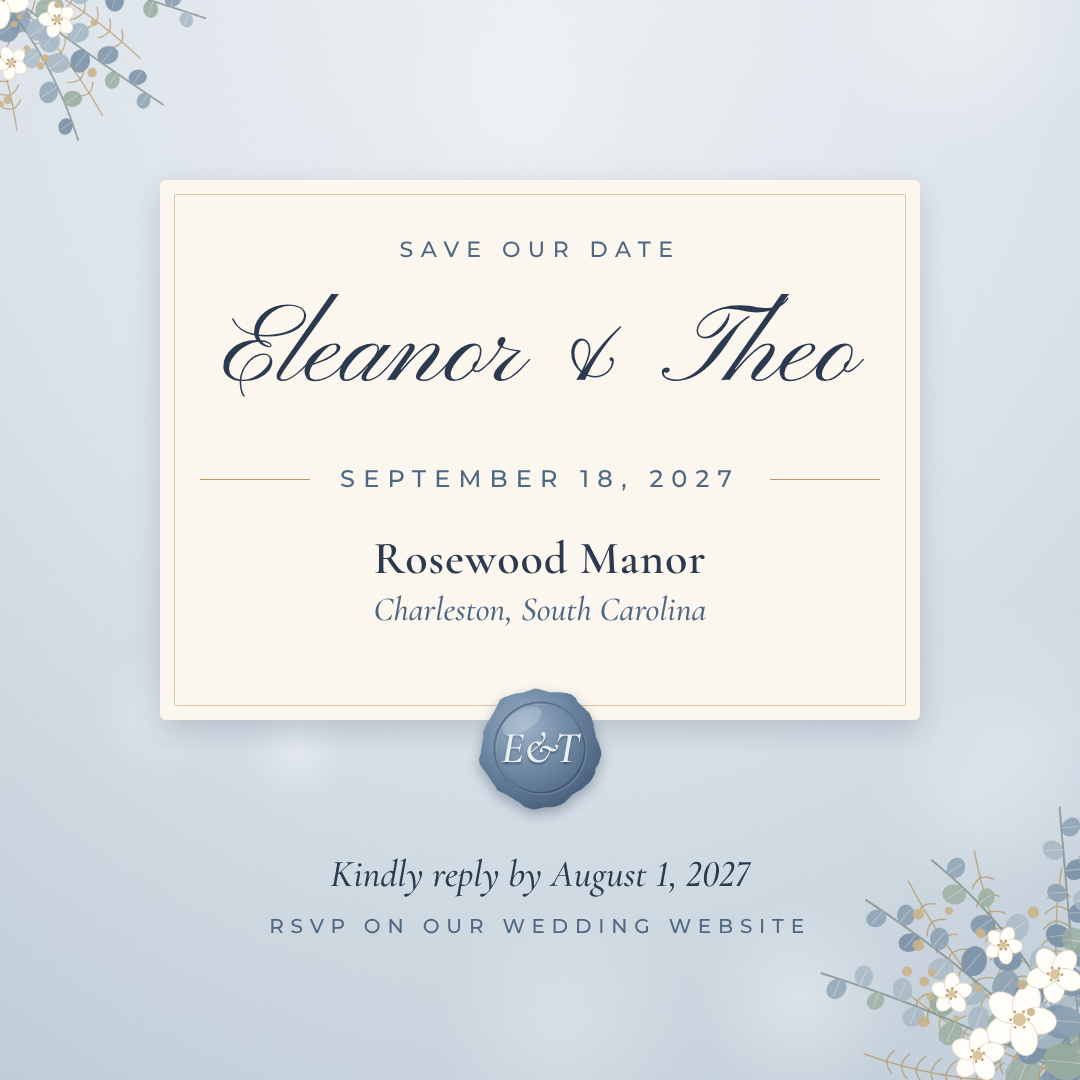
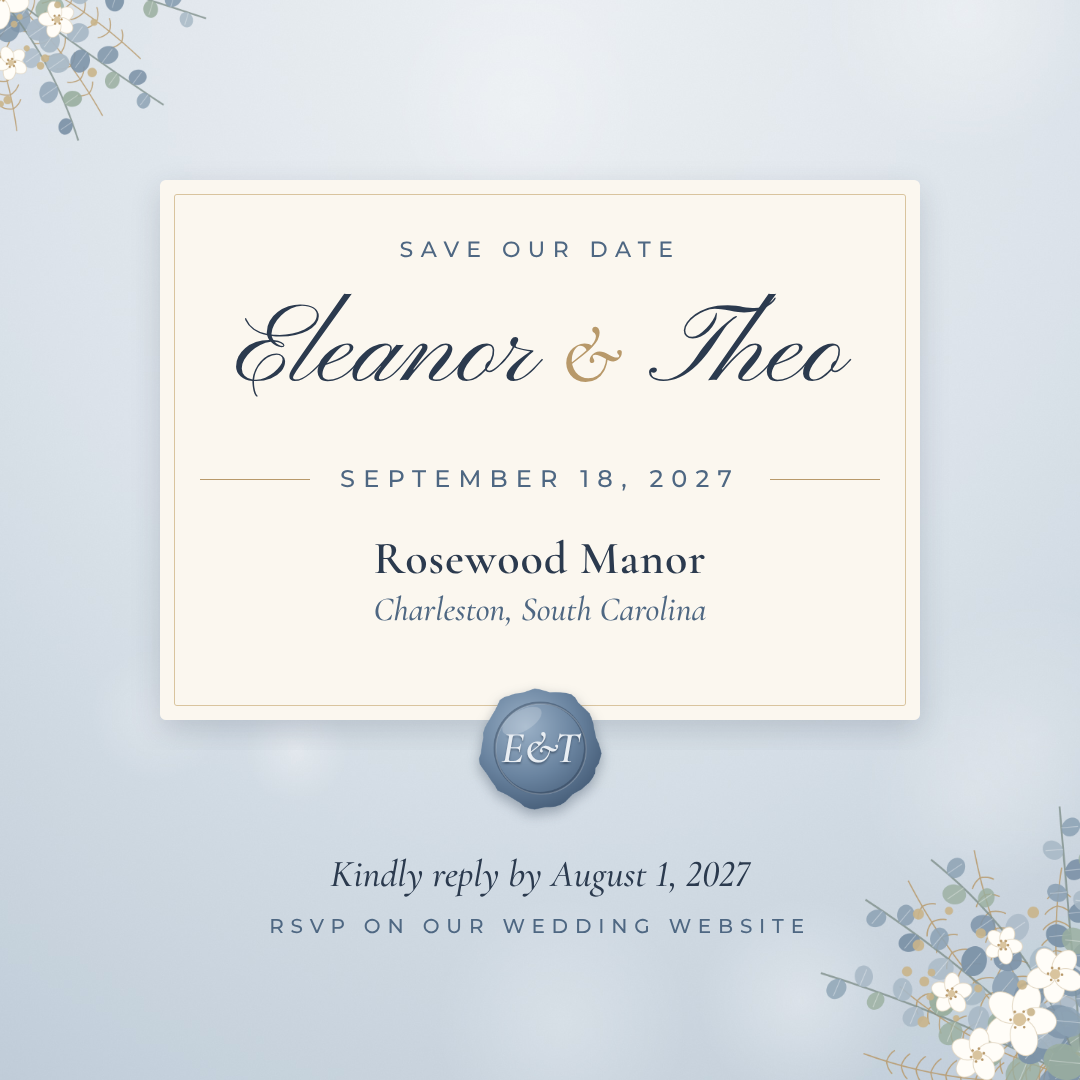
G022/G024/G025 onaylandı; Pinyon '&' düzeltmesi; G006 (polaroid katmanı) ve G007 (VERIFY kapatma) açıldı
Claude-Session: https://claude.ai/code/session_01DggDrVhqkPM3r57J4JpXEN

Changed region(s): [[0.2139, 0.275, 0.4889, 0.3667], [0.6111, 0.275, 0.7944, 0.3667], [0.5194, 0.3056, 0.5806, 0.3667]]

diff --git a/collections/02_Dusty_Blue/print/invitation_5x7.html b/collections/02_Dusty_Blue/print/invitation_5x7.html
@@ -20,6 +20,7 @@
   .abs { position: absolute; }
   .t { position: absolute; left: 0; width: 1500px; text-align: center; }
   .caps { font-family: 'Montserrat', sans-serif; font-weight: 500; letter-spacing: .34em; text-transform: uppercase; color: var(--deep); }
+  .amp { font-family: 'Cormorant Garamond', Georgia, serif; font-style: italic; font-size: .72em; color: var(--gold); } /* Pinyon '&' glifi 'v' gibi okunuyor */
   .script { font-family: 'Pinyon Script', cursive; font-weight: 400; color: var(--ink); line-height: 1.1; }
   .serif { font-family: 'Cormorant Garamond', Georgia, serif; font-weight: 500; font-variant-numeric: lining-nums; }
   .it { font-style: italic; }
@@ -42,7 +43,7 @@
   <div class="t caps" data-slot="host_line" style="top:330px;font-size:36px;line-height:44px">Together with their families</div>
 
   <div class="t script" data-slot="partner_1_full" style="top:440px;font-size:196px;line-height:216px">Eleanor Grace</div>
-  <div class="t script" data-slot="ampersand" style="top:640px;font-size:150px;line-height:150px;color:var(--gold)">&amp;</div>
+  <div class="t script" data-slot="ampersand" style="top:640px;font-size:150px;line-height:150px;color:var(--gold)"><span class="amp" style="font-size:.8em">&amp;</span></div>
   <div class="t script" data-slot="partner_2_full" style="top:780px;font-size:196px;line-height:216px">Theodore James</div>
 
   <div class="t serif it" data-slot="invite_line" style="top:1068px;font-size:56px;line-height:80px">request the pleasure of your company<br>at the celebration of their marriage</div>

diff --git a/collections/02_Dusty_Blue/print/square.html b/collections/02_Dusty_Blue/print/square.html
@@ -19,6 +19,7 @@
   .abs { position: absolute; }
   .t { position: absolute; left: 0; width: 1080px; text-align: center; }
   .caps { font-family: 'Montserrat', sans-serif; font-weight: 500; letter-spacing: .34em; text-transform: uppercase; color: var(--deep); }
+  .amp { font-family: 'Cormorant Garamond', Georgia, serif; font-style: italic; font-size: .72em; color: var(--gold); } /* Pinyon '&' glifi 'v' gibi okunuyor */
   .script { font-family: 'Pinyon Script', cursive; font-weight: 400; color: var(--ink); line-height: 1.1; }
   .serif { font-family: 'Cormorant Garamond', Georgia, serif; font-weight: 500; font-variant-numeric: lining-nums; }
   .it { font-style: italic; }
@@ -40,7 +41,7 @@
   <img class="abs" src="../assets/layers/card_small_blank.png" alt="" style="left:130px;top:150px;width:820px;height:600px">
 
   <div class="t caps" data-slot="kicker" style="top:236px;font-size:22px;line-height:28px">Save our date</div>
-  <div class="t script" data-slot="name_display" style="top:288px;font-size:112px;line-height:132px">Eleanor &amp; Theo</div>
+  <div class="t script" data-slot="name_display" style="top:288px;font-size:112px;line-height:132px">Eleanor <span class="amp">&amp;</span> Theo</div>
   <div class="line" style="left:200px;top:479px;width:110px"></div>
   <div class="t caps" data-slot="date" style="top:464px;font-size:24px;line-height:30px">September 18, 2027</div>
   <div class="line" style="left:770px;top:479px;width:110px"></div>

diff --git a/collections/02_Dusty_Blue/print/story.html b/collections/02_Dusty_Blue/print/story.html
@@ -19,6 +19,7 @@
   .abs { position: absolute; }
   .t { position: absolute; left: 0; width: 1080px; text-align: center; }
   .caps { font-family: 'Montserrat', sans-serif; font-weight: 500; letter-spacing: .34em; text-transform: uppercase; color: var(--deep); }
+  .amp { font-family: 'Cormorant Garamond', Georgia, serif; font-style: italic; font-size: .72em; color: var(--gold); } /* Pinyon '&' glifi 'v' gibi okunuyor */
   .script { font-family: 'Pinyon Script', cursive; font-weight: 400; color: var(--ink); line-height: 1.1; }
   .serif { font-family: 'Cormorant Garamond', Georgia, serif; font-weight: 500; font-variant-numeric: lining-nums; }
   .it { font-style: italic; }
@@ -35,7 +36,7 @@
   <img class="abs" src="../assets/layers/botanical_br.png" alt="" style="left:670px;top:1510px;width:410px;height:410px">
 
   <div class="t caps" data-slot="kicker" style="top:180px;font-size:28px;line-height:36px">Save our date</div>
-  <div class="t script" data-slot="name_display" style="top:228px;font-size:150px;line-height:170px">Eleanor &amp; Theo</div>
+  <div class="t script" data-slot="name_display" style="top:228px;font-size:150px;line-height:170px">Eleanor <span class="amp">&amp;</span> Theo</div>
 
   <!-- polaroid: CSS çerçeve (video .pol ile aynı ölçü) + değiştirilebilir fotoğraf (alıcı kendi fotoğrafını koyar).
        Not: layers/polaroid_frame.png gölgesi sağ/altta keskin kesik olduğu için burada kullanılmadı. -->

diff --git a/gorevler/PANO.md b/gorevler/PANO.md
@@ -3,19 +3,19 @@
 `python3 tools/gorev.py pano` ile üretilir; **gerçek durum görev dosyalarındadır**. Bu dosya kabuk
 çalıştıramayan ajanlar içindir: kendi rolünün **Alınabilir** listesindeki ilk görevi al.
 
-Özet: hazir 327 · alindi 4 · inceleme 3 · blokaj 1 · bitti 4 · toplam 339
+Özet: hazir 329 · alindi 4 · inceleme 0 · blokaj 1 · bitti 7 · toplam 341
 
 ## claude-canva
 
-**Alınabilir (0)**
+**Alınabilir (1)**
 
-- (yok)
+- `G023` p3 — A3 + A4 — Canva'da kur ve export et → `gorevler/G023-v01-pdf-story-canva.md`
 
 **Üzerinde çalışılan / incelemede / blokaj (0)**
 
 - (yok)
 
-Bağımlılık bekleyen: 83 · Biten: 2
+Bağımlılık bekleyen: 82 · Biten: 2
 
 ## claude-tarayici
 
@@ -27,11 +27,11 @@ Bağımlılık bekleyen: 83 · Biten: 2
 
 - (yok)
 
-Bağımlılık bekleyen: 40 · Biten: 0
+Bağımlılık bekleyen: 41 · Biten: 0
 
 ## claude-kod
 
-**Alınabilir (19)**
+**Alınabilir (39)**
 
 - `G101` p2 — Tasarım 01 Olive & Ivory — HTML sahne kaynağı + katmanlar → `gorevler/G101-kaynak.md`
 - `G104` p2 — Tasarım 04 Vintage Airmail Love Letter — HTML sahne kaynağı + katmanlar → `gorevler/G104-kaynak.md`
@@ -51,31 +51,68 @@ Bağımlılık bekleyen: 40 · Biten: 0
 - `G118` p2 — Tasarım 18 Wildflower Meadow Vellum — HTML sahne kaynağı + katmanlar → `gorevler/G118-kaynak.md`
 - `G119` p2 — Tasarım 19 Midnight Garden — HTML sahne kaynağı + katmanlar → `gorevler/G119-kaynak.md`
 - `G120` p2 — Tasarım 20 Coastal Seaside — HTML sahne kaynağı + katmanlar → `gorevler/G120-kaynak.md`
+- `G006` p3 — Tasarım 02 — polaroid_frame katmanını geniş kenarla yeniden çıkar (gölge kesik) → `gorevler/G006-polaroid-katman-pad.md`
+- `G501` p3 — Tasarım 01 Olive & Ivory — A3 5×7 davetiye + A4 story/kare kaynakları → `gorevler/G501-baski-kaynak.md`
+- `G503` p3 — Tasarım 03 Blush Garden Rose — A3 5×7 davetiye + A4 story/kare kaynakları → `gorevler/G503-baski-kaynak.md`
+- `G504` p3 — Tasarım 04 Vintage Airmail Love Letter — A3 5×7 davetiye + A4 story/kare kaynakları → `gorevler/G504-baski-kaynak.md`
+- `G505` p3 — Tasarım 05 Mediterranean Lemon — A3 5×7 davetiye + A4 story/kare kaynakları → `gorevler/G505-baski-kaynak.md`
+- `G506` p3 — Tasarım 06 Art Deco Black-Tie — A3 5×7 davetiye + A4 story/kare kaynakları → `gorevler/G506-baski-kaynak.md`
+- `G507` p3 — Tasarım 07 Burgundy Velvet Autumn — A3 5×7 davetiye + A4 story/kare kaynakları → `gorevler/G507-baski-kaynak.md`
+- `G508` p3 — Tasarım 08 Winter Evergreen — A3 5×7 davetiye + A4 story/kare kaynakları → `gorevler/G508-baski-kaynak.md`
+- `G509` p3 — Tasarım 09 Lavender Provence — A3 5×7 davetiye + A4 story/kare kaynakları → `gorevler/G509-baski-kaynak.md`
+- `G510` p3 — Tasarım 10 Tuscan Vineyard — A3 5×7 davetiye + A4 story/kare kaynakları → `gorevler/G510-baski-kaynak.md`
+- `G511` p3 — Tasarım 11 Boho Pampas Terracotta — A3 5×7 davetiye + A4 story/kare kaynakları → `gorevler/G511-baski-kaynak.md`
+- `G512` p3 — Tasarım 12 Tropical Destination — A3 5×7 davetiye + A4 story/kare kaynakları → `gorevler/G512-baski-kaynak.md`
+- `G513` p3 — Tasarım 13 Enchanted Forest Storybook — A3 5×7 davetiye + A4 story/kare kaynakları → `gorevler/G513-baski-kaynak.md`
+- `G514` p3 — Tasarım 14 Ivory Lace & Pearls — A3 5×7 davetiye + A4 story/kare kaynakları → `gorevler/G514-baski-kaynak.md`
+- `G515` p3 — Tasarım 15 Cherry Blossom Spring — A3 5×7 davetiye + A4 story/kare kaynakları → `gorevler/G515-baski-kaynak.md`
+- `G516` p3 — Tasarım 16 Sunflower Rustic Barn — A3 5×7 davetiye + A4 story/kare kaynakları → `gorevler/G516-baski-kaynak.md`
+- `G517` p3 — Tasarım 17 Emerald & Gold Estate — A3 5×7 davetiye + A4 story/kare kaynakları → `gorevler/G517-baski-kaynak.md`
+- `G518` p3 — Tasarım 18 Wildflower Meadow Vellum — A3 5×7 davetiye + A4 story/kare kaynakları → `gorevler/G518-baski-kaynak.md`
+- `G519` p3 — Tasarım 19 Midnight Garden — A3 5×7 davetiye + A4 story/kare kaynakları → `gorevler/G519-baski-kaynak.md`
+- `G520` p3 — Tasarım 20 Coastal Seaside — A3 5×7 davetiye + A4 story/kare kaynakları → `gorevler/G520-baski-kaynak.md`
 - `G040` p4 — tools/make_variant.py — varyant hattı → `gorevler/G040-make-variant-araci.md`
 
-**Üzerinde çalışılan / incelemede / blokaj (5)**
+**Üzerinde çalışılan / incelemede / blokaj (4)**
 
 - `G020` alindi · claude-kod-3 — A2 — tek sayfa responsive website HTML kaynağı
-- `G022` inceleme · claude-kod-4 — A3 + A4 — 5×7 davetiye ve story/kare kaynakları
 - `G028` alindi · claude-kod-5 — tools/mockup_compose.py — yeşil ekran mockup + ilan görseli şablonları
 - `G103` alindi · claude-kod-6 — Tasarım 03 Blush Garden Rose — HTML sahne kaynağı + katmanlar
 - `G026` alindi · claude-kod-5 — tools/md_to_pdf.py — markdown'dan markalı PDF
 
-Bağımlılık bekleyen: 78 · Biten: 2
+Bağımlılık bekleyen: 59 · Biten: 3
 
 ## claude-metin
 
-**Alınabilir (2)**
+**Alınabilir (21)**
 
 - `G005` p1 — G004'ün belge ayağı — Canva UI işleri için web/belge araştırması → `gorevler/G005-canva-ui-web-arastirma.md`
+- `G701` p3 — Tasarım 01 Olive & Ivory — A5 kılavuz + B3 Etsy ilan metni → `gorevler/G701-metinler.md`
+- `G703` p3 — Tasarım 03 Blush Garden Rose — A5 kılavuz + B3 Etsy ilan metni → `gorevler/G703-metinler.md`
+- `G704` p3 — Tasarım 04 Vintage Airmail Love Letter — A5 kılavuz + B3 Etsy ilan metni → `gorevler/G704-metinler.md`
+- `G705` p3 — Tasarım 05 Mediterranean Lemon — A5 kılavuz + B3 Etsy ilan metni → `gorevler/G705-metinler.md`
+- `G706` p3 — Tasarım 06 Art Deco Black-Tie — A5 kılavuz + B3 Etsy ilan metni → `gorevler/G706-metinler.md`
+- `G707` p3 — Tasarım 07 Burgundy Velvet Autumn — A5 kılavuz + B3 Etsy ilan metni → `gorevler/G707-metinler.md`
+- `G708` p3 — Tasarım 08 Winter Evergreen — A5 kılavuz + B3 Etsy ilan metni → `gorevler/G708-metinler.md`
+- `G709` p3 — Tasarım 09 Lavender Provence — A5 kılavuz + B3 Etsy ilan metni → `gorevler/G709-metinler.md`
+- `G710` p3 — Tasarım 10 Tuscan Vineyard — A5 kılavuz + B3 Etsy ilan metni → `gorevler/G710-metinler.md`
+- `G711` p3 — Tasarım 11 Boho Pampas Terracotta — A5 kılavuz + B3 Etsy ilan metni → `gorevler/G711-metinler.md`
+- `G712` p3 — Tasarım 12 Tropical Destination — A5 kılavuz + B3 Etsy ilan metni → `gorevler/G712-metinler.md`
+- `G713` p3 — Tasarım 13 Enchanted Forest Storybook — A5 kılavuz + B3 Etsy ilan metni → `gorevler/G713-metinler.md`
+- `G714` p3 — Tasarım 14 Ivory Lace & Pearls — A5 kılavuz + B3 Etsy ilan metni → `gorevler/G714-metinler.md`
+- `G715` p3 — Tasarım 15 Cherry Blossom Spring — A5 kılavuz + B3 Etsy ilan metni → `gorevler/G715-metinler.md`
+- `G716` p3 — Tasarım 16 Sunflower Rustic Barn — A5 kılavuz + B3 Etsy ilan metni → `gorevler/G716-metinler.md`
+- `G717` p3 — Tasarım 17 Emerald & Gold Estate — A5 kılavuz + B3 Etsy ilan metni → `gorevler/G717-metinler.md`
+- `G718` p3 — Tasarım 18 Wildflower Meadow Vellum — A5 kılavuz + B3 Etsy ilan metni → `gorevler/G718-metinler.md`
+- `G719` p3 — Tasarım 19 Midnight Garden — A5 kılavuz + B3 Etsy ilan metni → `gorevler/G719-metinler.md`
+- `G720` p3 — Tasarım 20 Coastal Seaside — A5 kılavuz + B3 Etsy ilan metni → `gorevler/G720-metinler.md`
 - `G050` p7 — Etkinlik türü metin setleri (Save the Date, Engagement, Bridal Shower) → `gorevler/G050-etkinlik-turu-metinleri.md`
 
-**Üzerinde çalışılan / incelemede / blokaj (2)**
+**Üzerinde çalışılan / incelemede / blokaj (0)**
 
-- `G024` inceleme · claude-metin-1 — A5 — START HERE kılavuz metni (İngilizce)
-- `G025` inceleme · claude-metin-1 — B3 — Etsy ilan metni
+- (yok)
 
-Bağımlılık bekleyen: 19 · Biten: 0
+Bağımlılık bekleyen: 0 · Biten: 2
 
 ## claude-qa
 

diff --git a/gorevler/G006-polaroid-katman-pad.md b/gorevler/G006-polaroid-katman-pad.md
@@ -1,0 +1,29 @@
+---
+id: G006
+baslik: Tasarım 02 — polaroid_frame katmanını geniş kenarla yeniden çıkar (gölge kesik)
+rol: claude-kod
+durum: hazir
+alan:
+oncelik: 3
+bagimli: []
+yazar: [collections/02_Dusty_Blue/assets/layers/polaroid_frame.png, collections/02_Dusty_Blue/assets/layers/layers.json, collections/02_Dusty_Blue/canva/ASSET_MAP.json]
+---
+
+## Amaç
+G022'de görüldü: `polaroid_frame.png` gölgesi sağ ve alt kenarda sert dikdörtgenle kesiliyor. Katmanı daha geniş pay ile yeniden çıkarmak. (Dondurulmuş maskeye bilinçli istisna — entegratör onaylı.)
+
+## Girdiler
+- `collections/02_Dusty_Blue/video/invitation_motion.html`, `assets/layers/layers.json`, `tools/export_layers.mjs`
+- `canva/ASSET_MAP.json` (Canva yerleşimi 540×630, sol/üst ofset)
+
+## Yapılacaklar
+1. layers.json'da polaroid pad 50 → 80; yalnız bu katmanı yeniden çıkar (diğer dosyalar değişmesin).
+2. Yeni ölçüye göre ASSET_MAP'teki polaroid yerleşim boyutu/ofsetini hesapla ve not et (Canva'daki güncelleme G012'de yapılır).
+3. Önce/sonra karşılaştırma görüntüsü Sonuç'a (scratch).
+
+## Bitti sayılması için
+- [ ] Gölge kesilmiyor
+- [ ] Yalnız polaroid dosyası değişti (git diff)
+
+## Sonuç
+_(görevi yapan ajan doldurur: ne yapıldı, hangi dosyalar, ne test edildi / edilmedi, blokaj, önerilen yeni görevler)_

diff --git a/gorevler/G007-kilavuz-verify.md b/gorevler/G007-kilavuz-verify.md
@@ -1,0 +1,28 @@
+---
+id: G007
+baslik: Tasarım 02 — kılavuz ve ilandaki [VERIFY] maddelerini gerçek arayüzde kapat
+rol: claude-tarayici
+durum: hazir
+alan:
+oncelik: 4
+bagimli: [GA02, GB02]
+yazar: [collections/02_Dusty_Blue/package/customer/START_HERE.md, collections/02_Dusty_Blue/package/listing/listing.md]
+---
+
+## Amaç
+START_HERE ve ilan metnindeki `[VERIFY]` maddelerini Canva ve Etsy'nin gerçek arayüzünde doğrulayıp kapatmak; bulguya göre metni düzeltmek.
+
+## Girdiler
+- G024/G025 Sonuç bölümlerindeki VERIFY listesi
+- `gorevler/roller/claude-tarayici.md`
+
+## Yapılacaklar
+1. Her VERIFY maddesini gerçek arayüzde dene; doğruysa işareti kaldır, yanlışsa metni düzelt, denenemiyorsa nedenini yaz.
+2. Canva Free davranışı (alıcının tipik hesabı) için ikinci bir ücretsiz Canva hesabı gerekir. Hesap açmak kullanıcı kararıdır: entegratör onay vermeden hesap açma; o maddeleri 'Free hesapla denenmedi' diye bırak.
+3. Etsy maddeleri: ilan düzenleyicisini yalnız görüntüle; ilan yayınlama/ödeme yok.
+
+## Bitti sayılması için
+- [ ] Kalan her VERIFY için neden yazılı
+
+## Sonuç
+_(görevi yapan ajan doldurur: ne yapıldı, hangi dosyalar, ne test edildi / edilmedi, blokaj, önerilen yeni görevler)_

diff --git a/gorevler/G022-v01-pdf-story-kaynak.md b/gorevler/G022-v01-pdf-story-kaynak.md
@@ -2,7 +2,7 @@
 id: G022
 baslik: A3 + A4 — 5×7 davetiye ve story/kare kaynakları
 rol: claude-kod
-durum: inceleme
+durum: bitti
 alan: claude-kod-4
 oncelik: 2
 bagimli: []
@@ -57,6 +57,9 @@ ve PDF'teki link davranışı, gerçek baskı (renk/kesim payı — 5×7'de taş
   büyütüp polaroid_frame.png'yi yeniden üretmek (`tools/export_layers.mjs` / layers.json `pad: 50` → ~80).
 - "Save our date" ve "we're getting married" şablon metinleridir (kişisel veri değil); alıcı değiştirebilir.
 
+- Entegratör (2026-10-09): önizlemeler kontrol edildi; Pinyon `&` sorunu düzeltildi (`.amp` span, README'ye kural eklendi), önizlemeler yeniden üretildi.
+
 ## Günlük
 - 2026-10-09 alindi: claude-kod-4
 - 2026-10-09 bitti, incelemeye gönderildi
+- 2026-10-09 entegratör onayladı

diff --git a/gorevler/G024-v01-kilavuz-metni.md b/gorevler/G024-v01-kilavuz-metni.md
@@ -2,7 +2,7 @@
 id: G024
 baslik: A5 — START HERE kılavuz metni (İngilizce)
 rol: claude-metin
-durum: inceleme
+durum: bitti
 alan: claude-metin-1
 oncelik: 2
 bagimli: []
@@ -65,6 +65,9 @@ en fazla 5 site — kılavuza yazıldı. Website formunda isim toplanamıyorsa R
 **Önerilen görev:** GB02 sonrası `claude-tarayici` ile kılavuzun her adımını ikinci (Free) hesapta yürütüp [VERIFY]'ları
 kapatma; ardından G026 aracıyla US Letter PDF üretimi.
 
+- Entegratör (2026-10-09): yer tutucular ve [VERIFY] işaretleri kontrol edildi (17); ticari değer uydurulmamış. VERIFY kapatma görevi: G007.
+
 ## Günlük
 - 2026-10-09 alindi: claude-metin-1
 - 2026-10-09 bitti, incelemeye gönderildi
+- 2026-10-09 entegratör onayladı

diff --git a/gorevler/G025-v01-etsy-ilan-metni.md b/gorevler/G025-v01-etsy-ilan-metni.md
@@ -2,7 +2,7 @@
 id: G025
 baslik: B3 — Etsy ilan metni
 rol: claude-metin
-durum: inceleme
+durum: bitti
 alan: claude-metin-1
 oncelik: 2
 bagimli: []
@@ -52,6 +52,9 @@ müzik ve font dosyası yok denildi; demo isimler kurgu.
 **Önerilen görev:** G902'de bu metinden ilan PDF'i (B3) üretilirken [VERIFY]'ların kapandığı kontrol edilsin; GB02 sonrası
 "use now" başlık yerine ikinci başlığa geçiş kararı entegratörde.
 
+- Entegratör (2026-10-09): 13 etiket ≤20 karakter, başlık ≤140; 26 [VERIFY]; ticari alanlar yer tutucu. VERIFY kapatma: G007.
+
 ## Günlük
 - 2026-10-09 alindi: claude-metin-1
 - 2026-10-09 bitti, incelemeye gönderildi
+- 2026-10-09 entegratör onayladı

diff --git a/collections/02_Dusty_Blue/print/README.md b/collections/02_Dusty_Blue/print/README.md
@@ -88,3 +88,8 @@ Playwright (Chromium) ile her dosya açılır, `document.fonts.ready` beklenir, 
    kart, mühür, fotoğraf yer tutucusu). Katman yoksa CSS ile çiz veya gpt-gorsel görevi öner.
 4. Metinleri o tasarımın `content.demo.json`'undan doldur; `data-slot` adlarını koru.
 5. Önizlemeleri üret, taşma listesinin boş olduğunu ve görselde çakışma olmadığını kontrol et.
+
+
+## Ampersand kuralı (entegratör, 2026-10-09)
+Pinyon Script'in `&` glifi "v" gibi okunuyor. Script başlıklardaki `&` her zaman
+`<span class="amp">&amp;</span>` (Cormorant Garamond italik, altın, ~0.72em) ile yazılır. G5NN/G4NN aynı kuralı uygular.
